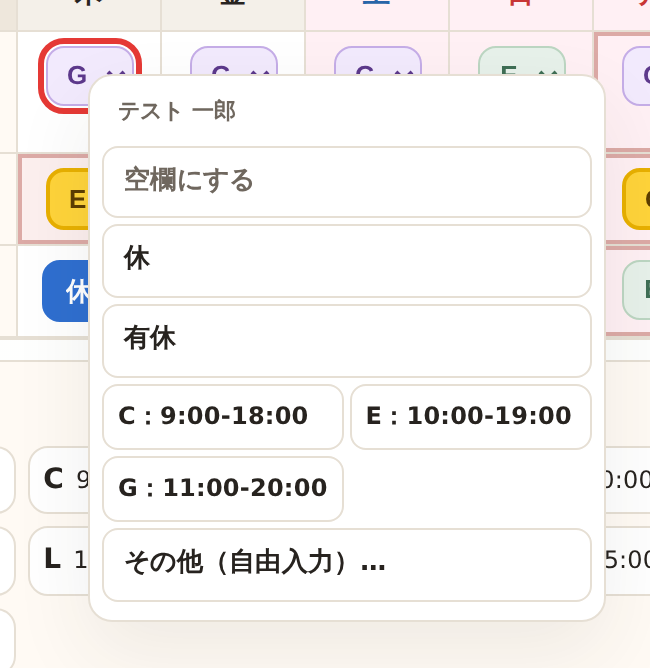
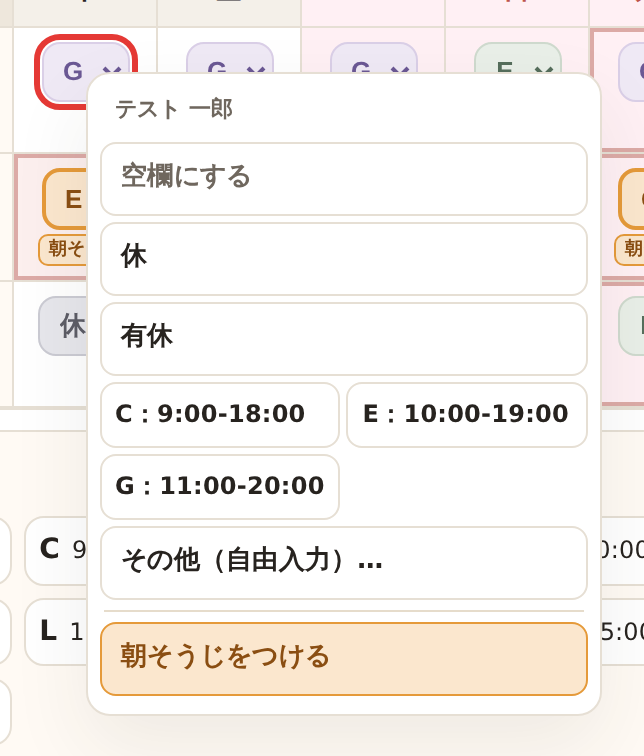
docs: sync manuals with recent feature changes + refresh screenshots
App/manual changes since the manuals were last written:
- Left menu reorganized into よく使う / 管理者向け / 店長のみ groups with
  the manual links moved inside the menu. Renumbered the manual's red
  badges (1-8) to the new top-to-bottom order and rewrote the menu
  chapters (3, 5) and the m-menu screenshot to match.
- Cell quick-menu left/right behavior swapped: left-click now opens the
  frequent-codes menu (with a new 朝そうじをつける/外す toggle),
  right-click opens the full code list. Updated chapters 12 & 14, quick
  step 6, the q-deptedit/q-edit-cell screenshots, and the in-app cell
  hint text (which still described the old behavior).
- Documented the new 朝そうじ tag (auto on early shifts, daily count,
  per-department exclusion rule builder, manual per-cell toggle, prints
  as text) and the シフト区分 appearance customization (collapsible
  panels, early=orange default) in chapter 7, with two new screenshots
  (m-morningclean, m-appearance). Noted recurring-schedule month/day.

Screenshot sizing (addresses oversized/blown-up images):
- manual.html figures now center the screenshot at its natural size
  inside a full-width card instead of stretching every image to the
  column width, so small UI captures (menu, cell menu, export menu,
  etc.) are no longer upscaled. Verified no horizontal overflow and no
  broken/cut-off images in either manual.
- Refreshed q-check and q-calendar-view from realistic multi-department
  data so they show the current styling (orange early shifts, 朝そうじ
[…]

Changed region(s): [[0.0, 0.0, 1.0, 0.988]]

diff --git a/manual.html b/manual.html
@@ -30,9 +30,9 @@ ol.manSteps{list-style:none;counter-reset:mstep;padding:0;margin:12px 0;display:
 ol.manSteps li{counter-increment:mstep;position:relative;padding:11px 13px 11px 50px;background:#fff;border:1px solid var(--line);border-radius:12px;font-size:15px;line-height:1.6}
 ol.manSteps li::before{content:counter(mstep);position:absolute;left:11px;top:50%;transform:translateY(-50%);width:28px;height:28px;border-radius:50%;background:var(--accent);color:#fff;font-weight:900;display:flex;align-items:center;justify-content:center;font-size:15px}
 ul.manList{margin:8px 0;padding-left:22px;font-size:15px;line-height:1.85}
-.manFig{margin:14px 0;border:1px solid var(--line);border-radius:14px;overflow:hidden;background:#fff;box-shadow:0 2px 12px rgba(0,0,0,.09)}
-.manFig img{display:block;width:100%;height:auto}
-.manFig figcaption{font-size:13px;color:#5b554d;padding:10px 14px;background:#f7f3ec;border-top:1px solid var(--line);line-height:1.8}
+.manFig{margin:14px 0;border:1px solid var(--line);border-radius:14px;overflow:hidden;background:#fff;box-shadow:0 2px 12px rgba(0,0,0,.09);text-align:center}
+.manFig img{display:block;width:100%;height:auto;margin:0 auto}
+.manFig figcaption{font-size:13px;color:#5b554d;padding:10px 14px;background:#f7f3ec;border-top:1px solid var(--line);line-height:1.8;text-align:left}
 .manFig figcaption b{color:#c0392b}
 .manWarn{margin:13px 0;border:1px solid #e6cf9a;background:#fff8e8;border-left:6px solid #e0a93a;border-radius:12px;padding:13px 15px}
 .manWarn .manWarnHead{font-weight:900;color:#8a5a00;font-size:15px;margin-bottom:4px;display:flex;align-items:center;gap:6px}
@@ -87,7 +87,7 @@ ul.manList{margin:8px 0;padding-left:22px;font-size:15px;line-height:1.85}
           <p class="manLead">KJM Shift＋は、お店のシフトを作るツールです。おもにこの5つができます。入力した内容はこの端末（パソコン）の中だけに自動で保存され、外部には送信されません。</p>
           <ul class="manList"><li>スタッフや希望休を登録する</li><li>部署ごとにシフトを自動で作る</li><li>作ったシフトを全体表で確認・修正する</li><li>シフトを印刷する</li><li>バックアップ（控え）を保存する</li></ul>
           <div class="manTip"><div class="manTipHead">自動保存です</div><p>「保存」ボタンを押さなくても、入力するたびに自動で保存されます。だからこそ、まちがいもすぐ保存されます。困ったら早めに直しましょう。</p></div>
-          <figure class="manFig"><img src="assets/manual/m-calendar.png" alt="全体シフト表の上部。編集モードにするボタンとファイル出力" loading="lazy" width="1158" height="212"><figcaption>これが最初に開く「全体シフト表」です。<b>①</b>編集モードにするボタン　<b>②</b>ファイル出力（印刷など）。※①と②の間にある「部署別シフト作成へ」は10章で使います。</figcaption></figure>
+          <figure class="manFig"><img src="assets/manual/m-calendar.png" alt="全体シフト表の上部。編集モードにするボタンとファイル出力" loading="lazy" width="1158" height="212" style="max-width:1158px"><figcaption>これが最初に開く「全体シフト表」です。<b>①</b>編集モードにするボタン　<b>②</b>ファイル出力（印刷など）。※①と②の間にある「部署別シフト作成へ」は10章で使います。</figcaption></figure>
         </section>
 
         <section class="manChapter" id="man-2">
@@ -96,7 +96,7 @@ ul.manList{margin:8px 0;padding-left:22px;font-size:15px;line-height:1.85}
           <div class="manWarn"><div class="manWarnHead">その1：「すべて初期化」は押さない</div><p>設定や作ったシフトが<b>すべて消えて元に戻せません</b>。わからないときは触らないでください。</p></div>
           <div class="manWarn"><div class="manWarnHead">その2：「バックアップから復元」を勝手にしない</div><p>今のデータが<b>まるごと前の状態に戻り</b>、当月だけ戻すことはできません。復元は必ず店長またはチーフ以上に確認してから。</p></div>
           <div class="manWarn"><div class="manWarnHead">その3：別の端末（パソコン）で作業しない</div><p>データはこの端末の中だけに保存されます。別のパソコンでは同じデータが見えません。作業は決められた<b>店舗PC</b>で。</p></div>
-          <figure class="manFig"><img src="assets/manual/m-backup.png" alt="バックアップ画面。バックアップ取得・バックアップから復元・すべて初期化のボタン" loading="lazy" width="2200" height="646"><figcaption>「バックアップ」画面。<b>③</b>赤い「すべて初期化」と<b>②</b>「バックアップから復元」は、勝手に押さないでください（<b>①</b>はバックアップ取得＝OK）。</figcaption></figure>
+          <figure class="manFig"><img src="assets/manual/m-backup.png" alt="バックアップ画面。バックアップ取得・バックアップから復元・すべて初期化のボタン" loading="lazy" width="2200" height="646" style="max-width:2200px"><figcaption>「バックアップ」画面。<b>③</b>赤い「すべて初期化」と<b>②</b>「バックアップから復元」は、勝手に押さないでください（<b>①</b>はバックアップ取得＝OK）。</figcaption></figure>
         </section>
 
         <section class="manChapter" id="man-3">
@@ -104,16 +104,16 @@ ul.manList{margin:8px 0;padding-left:22px;font-size:15px;line-height:1.85}
           <p class="manLead">毎月の作業は、下の<b>手順1〜9</b>の順に進めます。手順の番号（緑の丸）は「作業の順番」です。下の画像にある左メニューの赤い番号 <span class="manNum2">1</span>〜<span class="manNum2">8</span> は「メニューの位置」で、作業の順番とは別物です。各手順では、使うメニューを赤い番号で示します（例：<span class="manNum2">1</span>＝全体シフト表）。</p>
           <ol class="manSteps">
             <li>締め月を確認する〔メニュー上部の締め月バッジ〕</li>
-            <li>（必要なら）スタッフ・基本ルールを確認する〔<span class="manNum2">4</span>スタッフ／<span class="manNum2">3</span>基本ルール〕</li>
-            <li>希望休・全体予定を入れる〔<span class="manNum2">5</span>シフト希望・全体予定〕</li>
+            <li>（必要なら）スタッフ・基本ルールを確認する〔<span class="manNum2">5</span>スタッフ／<span class="manNum2">4</span>基本ルール〕</li>
+            <li>希望休・全体予定を入れる〔<span class="manNum2">3</span>シフト希望・全体予定〕</li>
             <li>部署別シフトを作成する〔<span class="manNum2">2</span>部署別シフト作成〕</li>
-            <li>警告を確認する（許容の判断はチーフ以上）〔<span class="manNum2">7</span>集計・警告〕</li>
+            <li>警告を確認する（許容の判断はチーフ以上）〔<span class="manNum2">6</span>集計・警告〕</li>
             <li>問題なければ確定する〔<span class="manNum2">2</span>部署別シフト作成〕</li>
             <li>全体シフト表で確認する〔<span class="manNum2">1</span>全体シフト表〕</li>
             <li>印刷する〔<span class="manNum2">1</span>全体シフト表 →ファイル出力〕</li>
-            <li>バックアップを取る〔<span class="manNum2">6</span>バックアップ〕</li>
+            <li>バックアップを取る〔<span class="manNum2">7</span>バックアップ〕</li>
           </ol>
-          <figure class="manFig"><img src="assets/manual/m-menu.png" alt="左メニュー。全体シフト表/部署別シフト作成/基本ルール/スタッフ/シフト希望・全体予定/バックアップ/集計・警告/OBIC連携用" loading="lazy" width="500" height="1714"><figcaption>左メニューの赤い番号は「メニューの位置」です（作業の順番ではありません）：<span class="manNum2">1</span>全体シフト表　<span class="manNum2">2</span>部署別シフト作成　<span class="manNum2">3</span>基本ルール　<span class="manNum2">4</span>スタッフ　<span class="manNum2">5</span>シフト希望・全体予定　<span class="manNum2">6</span>バックアップ　<span class="manNum2">7</span>集計・警告　<span class="manNum2">8</span>【店長】OBIC連携用。上の手順で「〔<span class="manNum2">1</span>全体シフト表〕」のように出てくる番号が、この画像の番号です。</figcaption></figure>
+          <figure class="manFig"><img src="assets/manual/m-menu.png" alt="左メニュー。全体シフト表/部署別シフト作成/基本ルール/スタッフ/シフト希望・全体予定/バックアップ/集計・警告/OBIC連携用" loading="lazy" width="274" height="1157" style="max-width:274px"><figcaption>メニューは「よく使う」「管理者向け（鍵マーク）」「店長のみ（鍵マーク）」に分かれています（鍵マークはチーフ以上・店長向け）。赤い番号は「メニューの位置」です（作業の順番ではありません）：<span class="manNum2">1</span>全体シフト表　<span class="manNum2">2</span>部署別シフト作成　<span class="manNum2">3</span>シフト希望・全体予定　<span class="manNum2">4</span>基本ルール　<span class="manNum2">5</span>スタッフ　<span class="manNum2">6</span>集計・警告　<span class="manNum2">7</span>バックアップ　<span class="manNum2">8</span>【店長】OBIC連携用。「使い方マニュアル」「クイックマニュアル」もこのメニューから開けます。上の手順で「〔<span class="manNum2">1</span>全体シフト表〕」のように出てくる番号が、この画像の番号です。</figcaption></figure>
         </section>
 
         <section class="manChapter" id="man-4">
@@ -121,40 +121,52 @@ ul.manList{margin:8px 0;padding-left:22px;font-size:15px;line-height:1.85}
           <p class="manLead">このツールは「15日締め」です。作業の前に、画面の締め月が正しいか必ず確認します。</p>
           <ul class="manList"><li>8月度のシフト → 7月16日 〜 8月15日</li><li>9月度のシフト → 8月16日 〜 9月15日</li></ul>
           <div class="manTip"><div class="manTipHead">月の変え方</div><p>左メニュー上の締め月バッジの <b>◀ ▶</b> で月を変えます。ここを変えると全部の画面が同じ月に切り替わります。</p></div>
-          <figure class="manFig"><img src="assets/manual/m-period.png" alt="締め月バッジ。前後の月へ動かす◀▶の矢印" loading="lazy" width="568" height="364"><figcaption><b>①</b>締め月バッジ。◀ ▶ で締め月を前後に動かせます。</figcaption></figure>
+          <figure class="manFig"><img src="assets/manual/m-period.png" alt="締め月バッジ。前後の月へ動かす◀▶の矢印" loading="lazy" width="568" height="364" style="max-width:568px"><figcaption><b>①</b>締め月バッジ。◀ ▶ で締め月を前後に動かせます。</figcaption></figure>
         </section>
 
         <section class="manChapter" id="man-5">
           <h3><span class="mnNum">5</span>画面の見方（左メニュー）</h3>
-          <p class="manLead">左のメニューで画面を切り替えます。それぞれの役割はこちらです。</p>
+          <p class="manLead">左のメニューで画面を切り替えます。メニューは<b>「よく使う」「管理者向け（鍵マーク）」「店長のみ（鍵マーク）」</b>の3つに分かれています。鍵マークの付いたグループは、おもにチーフ以上・店長が使う設定です。それぞれの役割はこちらです。</p>
+          <p><b>よく使う</b></p>
           <ul class="manList">
             <li><span class="manNum2">1</span><b>全体シフト表</b>：全員のシフトをまとめて見る・直す</li>
             <li><span class="manNum2">2</span><b>部署別シフト作成</b>：部署ごとに自動で作って確定する</li>
-            <li><span class="manNum2">3</span><b>基本ルール</b>：連勤・必要人数・シフト区分などの前提（おもにチーフ以上）</li>
-            <li><span class="manNum2">4</span><b>スタッフ</b>：スタッフの登録・変更</li>
-            <li><span class="manNum2">5</span><b>シフト希望・全体予定</b>：希望休や店舗予定を入れる</li>
-            <li><span class="manNum2">6</span><b>バックアップ</b>：控えの保存・復元</li>
-            <li><span class="manNum2">7</span><b>集計・警告</b>：不足や違反のチェック</li>
+            <li><span class="manNum2">3</span><b>シフト希望・全体予定</b>：希望休や店舗予定を入れる</li>
+            <li><b>使い方マニュアル／クイックマニュアル</b>：この説明ページを別タブで開く</li>
+          </ul>
+          <p><b>管理者向け（鍵マーク・おもにチーフ以上）</b></p>
+          <ul class="manList">
+            <li><span class="manNum2">4</span><b>基本ルール</b>：連勤・必要人数・シフト区分などの前提</li>
+            <li><span class="manNum2">5</span><b>スタッフ</b>：スタッフの登録・変更</li>
+            <li><span class="manNum2">6</span><b>集計・警告</b>：不足や違反のチェック</li>
+            <li><span class="manNum2">7</span><b>バックアップ</b>：控えの保存・復元</li>
+          </ul>
+          <p><b>店長のみ（鍵マーク）</b></p>
+          <ul class="manList">
             <li><span class="manNum2">8</span><b>【店長】OBIC連携用</b>：店長専用</li>
           </ul>
-          <figure class="manFig"><img src="assets/manual/m-menu.png" alt="左メニュー。全体シフト表/部署別シフト作成/基本ルール/スタッフ/シフト希望・全体予定/バックアップ/集計・警告/OBIC連携用" loading="lazy" width="500" height="1714"><figcaption>左メニューの赤い番号 <span class="manNum2">1</span>〜<span class="manNum2">8</span> は、上の一覧と同じ並びです。今いる画面は色が濃くなります。</figcaption></figure>
+          <figure class="manFig"><img src="assets/manual/m-menu.png" alt="左メニュー。全体シフト表/部署別シフト作成/基本ルール/スタッフ/シフト希望・全体予定/バックアップ/集計・警告/OBIC連携用" loading="lazy" width="274" height="1157" style="max-width:274px"><figcaption>左メニューの赤い番号 <span class="manNum2">1</span>〜<span class="manNum2">8</span> は、上の一覧と同じ並びです。今いる画面は色が濃くなります。</figcaption></figure>
         </section>
 
         <section class="manChapter" id="man-6">
           <h3><span class="mnNum">6</span>スタッフを登録・変更する</h3>
           <p class="manLead">「スタッフ」画面で登録・変更します。追加や退職者の削除は、各部署のチーフ以上も行えます。一覧は社員番号の昇順で並びます。</p>
           <ol class="manSteps"><li>左メニューの「スタッフ」を押す</li><li>「この部署にスタッフを追加」を押す（または既存スタッフのカードを押すと編集できます）</li><li>姓・名、姓のよみ・名のよみ、社員番号（5桁）を入れる</li><li>必要に応じてタグ・対応できる部署・固定公休などを設定する</li><li>「追加」を押す（編集中は「編集を終える」）</li></ol>
-          <figure class="manFig"><img src="assets/manual/m-staff.png" alt="スタッフ一覧。追加ボタン、検索、社員番号順に並ぶスタッフ行" loading="lazy" width="2360" height="366"><figcaption>スタッフ一覧。<b>①</b>「この部署にスタッフを追加」　<b>②</b>名前・よみがなで検索　<b>③</b>スタッフ名（クリックで編集できます。一覧は名前の下の「No.〇〇」＝社員番号の昇順で並びます）。</figcaption></figure>
-          <figure class="manFig"><img src="assets/manual/m-staff-edit.png" alt="スタッフ編集フォーム。姓名・よみがな・社員番号・タグ・対応できる部署・固定公休" loading="lazy" width="2124" height="2824"><figcaption>スタッフの編集。<b>①</b>姓・名　<b>②</b>姓のよみ・名のよみ（漢字を打つと自動で入ります）　<b>③</b>社員番号（5桁。番号で社員/パートが自動で付きます）　<b>④</b>タグ　<b>⑤</b>対応できる部署・兼務可能部署（チェックすると他部署のシフトにも入れます）　<b>⑥</b>固定公休日（毎週の決まった休み）。</figcaption></figure>
+          <figure class="manFig"><img src="assets/manual/m-staff.png" alt="スタッフ一覧。追加ボタン、検索、社員番号順に並ぶスタッフ行" loading="lazy" width="2360" height="366" style="max-width:2360px"><figcaption>スタッフ一覧。<b>①</b>「この部署にスタッフを追加」　<b>②</b>名前・よみがなで検索　<b>③</b>スタッフ名（クリックで編集できます。一覧は名前の下の「No.〇〇」＝社員番号の昇順で並びます）。</figcaption></figure>
+          <figure class="manFig"><img src="assets/manual/m-staff-edit.png" alt="スタッフ編集フォーム。姓名・よみがな・社員番号・タグ・対応できる部署・固定公休" loading="lazy" width="2124" height="2824" style="max-width:2124px"><figcaption>スタッフの編集。<b>①</b>姓・名　<b>②</b>姓のよみ・名のよみ（漢字を打つと自動で入ります）　<b>③</b>社員番号（5桁。番号で社員/パートが自動で付きます）　<b>④</b>タグ　<b>⑤</b>対応できる部署・兼務可能部署（チェックすると他部署のシフトにも入れます）　<b>⑥</b>固定公休日（毎週の決まった休み）。</figcaption></figure>
           <div class="manTip"><div class="manTipHead">変更したら…</div><p>スタッフを追加・削除したら、必ずバックアップを取りましょう（→ <a href="#man-16">16章「バックアップ」</a>）。</p></div>
         </section>
 
         <section class="manChapter" id="man-7">
           <h3><span class="mnNum">7</span>基本ルールの設定（おもにチーフ以上）</h3>
           <p class="manLead">自動作成の「前提」を決める画面です。ここがズレていると警告が増えます。上の「共通ルール／部署別ルール」タブで切り替えます。</p>
-          <ul class="manList"><li><b>共通ルール</b>：最大連勤、試行回数、全体の最低人数、定休日、スタッフタグ一覧、定期予定（毎月の納品など）、シフト区分（時間帯）</li><li><b>部署別ルール</b>：部署ごとの必要人数（早・中・遅／平日・土日祝）</li></ul>
-          <figure class="manFig"><img src="assets/manual/m-basic-common.png" alt="基本ルール（共通）。共通/部署別タブ・最大連勤・タグ一覧・定期予定" loading="lazy" width="2360" height="1360"><figcaption>基本ルール（共通）。<b>①</b>共通／部署別のタブ　<b>②</b>最大連勤など　<b>③</b>全体予定のタグ一覧（納品・SALEなど）　<b>④</b>定期予定（毎月くり返す予定）。</figcaption></figure>
-          <figure class="manFig"><img src="assets/manual/m-basic-dept.png" alt="基本ルール（部署別）の画面。部署別ルールタブ、部署の選択、その部署の必要人数" loading="lazy" width="2400" height="1320"><figcaption>基本ルール（部署別）。<b>①</b>部署別タブ　<b>②</b>部署を選ぶ　<b>③</b>その部署の必要人数。</figcaption></figure>
+          <ul class="manList"><li><b>共通ルール</b>：最大連勤、試行回数、全体の最低人数、定休日、スタッフタグ一覧、定期予定（毎月くり返す予定。<b>毎月／各月</b>、日付は<b>1〜31日・月末</b>から選べます）、シフト区分（区分名・時間帯・早中遅の割り当て。<b>色や枠など見た目の詳細設定</b>もできます）</li><li><b>部署別ルール</b>：部署ごとの必要人数（早・中・遅／平日・土日祝）、<b>朝そうじタグの除外設定</b></li></ul>
+          <figure class="manFig"><img src="assets/manual/m-basic-common.png" alt="基本ルール（共通）。共通/部署別タブ・最大連勤・タグ一覧・定期予定" loading="lazy" width="2360" height="1360" style="max-width:2360px"><figcaption>基本ルール（共通）。<b>①</b>共通／部署別のタブ　<b>②</b>最大連勤など　<b>③</b>全体予定のタグ一覧（納品・SALEなど）　<b>④</b>定期予定（毎月くり返す予定）。</figcaption></figure>
+          <figure class="manFig"><img src="assets/manual/m-basic-dept.png" alt="基本ルール（部署別）の画面。部署別ルールタブ、部署の選択、その部署の必要人数" loading="lazy" width="2400" height="1320" style="max-width:2400px"><figcaption>基本ルール（部署別）。<b>①</b>部署別タブ　<b>②</b>部署を選ぶ　<b>③</b>その部署の必要人数。この下に<b>「朝そうじタグの除外設定」</b>もあります。</figcaption></figure>
+          <div class="manTip"><div class="manTipHead">シフト区分の「見た目」を変えられます</div><p>「共通ルール」の<b>シフト区分</b>では、見出し<b>「シフト区分を編集」</b>で区分名・時間・割り当てを、<b>「区分の見た目を詳細設定」</b>で区分ごとの背景・文字・枠の色や太枠を変えられます（見出しを押すと開閉。初期値は<b>早番＝オレンジ、休＝グレー</b>）。設定は全体シフト表・部署別シフト・印刷/PDFに反映されます。「全区分を既定に戻す」で初期状態に戻せます。</p></div>
+          <figure class="manFig"><img src="assets/manual/m-appearance.png" alt="シフト区分の見た目を詳細設定する表。区分ごとに背景・文字・枠・太枠を設定" loading="lazy" width="974" height="1352" style="max-width:560px"><figcaption>「区分の見た目を詳細設定」を開いたところ。区分ごとに<b>背景・文字・枠・太枠</b>を設定できます（早番＝オレンジが初期値）。</figcaption></figure>
+          <div class="manTip"><div class="manTipHead">「朝そうじ」タグ（早番に自動で付きます）</div><p><b>早番</b>の勤務には、自動で<b>「朝そうじ」</b>の印が付きます（シフト表のマスの下に小さく表示。印刷時は文字で出ます）。日付ごとの合計行にも「朝そうじ」の人数が出ます。特定の曜日や全体予定の日に付けたくない部署は、<b>「部署別ルール」→「朝そうじタグの除外設定」</b>で条件を登録します（希望休と同じく、条件を組み立てて「＋ ルール追加」。登録がなければ早番すべてに付きます）。個別のマスでの付け外しは、マスを<b>左クリック</b>したメニューの「朝そうじをつける／外す」でできます（→ <a href="#man-12">12章</a>）。</p></div>
+          <figure class="manFig"><img src="assets/manual/m-morningclean.png" alt="朝そうじタグの除外設定。曜日・回数・全体予定で付けない条件をルール登録" loading="lazy" width="974" height="526" style="max-width:720px"><figcaption>「部署別ルール」の<b>朝そうじタグの除外設定</b>。曜日・回数や全体予定タグで「付けない日」の条件をルールにして登録します。</figcaption></figure>
           <div class="manTip"><div class="manTipHead">「チーフMTG」の日のしくみ</div><p>全体予定や定期予定に<b>「チーフMTG」</b>タグを入れた日は、<b>「チーフ」「園長」</b>タグの付いたスタッフ（その日出勤する場合）を、自動で<b>なるべく遅番</b>に寄せます。これは強制ではなく弱い希望で、必要人数などが優先されます。なお<b>「チーフ」「園長」「チーフMTG」</b>のタグ名は変えないでください（変えるとこのしくみが効かなくなります）。</p></div>
           <div class="manTip"><div class="manTipHead">困ったら</div><p>必要人数の変更はチーフ以上に確認してから。むやみに変えると警告や不足が増えます。</p></div>
         </section>
@@ -164,10 +176,10 @@ ul.manList{margin:8px 0;padding-left:22px;font-size:15px;line-height:1.85}
           <p class="manLead">「シフト希望・全体予定」画面です。上に「シフト希望」と「全体予定」の2つのタブがあります。</p>
           <p><b>シフト希望（個人の希望休など）</b></p>
           <ol class="manSteps"><li>「シフト希望」タブを選ぶ</li><li>「表示する部署」を選ぶ</li><li>個人の名前タブを押す（「全体」は見るだけで追加できません）</li><li>条件（日付など）と希望（休／有休／早・中・遅など）を選ぶ</li><li>「＋ このスタッフに追加」を押す（「保存」ボタンはありません。1件ずつ追加します）</li></ol>
-          <figure class="manFig"><img src="assets/manual/m-prefs.png" alt="シフト希望の画面。シフト希望タブ、表示する部署、個人の名前タブ、希望の選択、このスタッフに追加ボタン" loading="lazy" width="1626" height="870"><figcaption>シフト希望。<b>①</b>「シフト希望」タブ　<b>②</b>表示する部署　<b>③</b>個人の名前タブ（「全体」は見るだけ）　<b>④</b>希望（休・有休・早中遅など）　<b>⑤</b>「＋ このスタッフに追加」で1件ずつ登録。</figcaption></figure>
+          <figure class="manFig"><img src="assets/manual/m-prefs.png" alt="シフト希望の画面。シフト希望タブ、表示する部署、個人の名前タブ、希望の選択、このスタッフに追加ボタン" loading="lazy" width="1626" height="870" style="max-width:1626px"><figcaption>シフト希望。<b>①</b>「シフト希望」タブ　<b>②</b>表示する部署　<b>③</b>個人の名前タブ（「全体」は見るだけ）　<b>④</b>希望（休・有休・早中遅など）　<b>⑤</b>「＋ このスタッフに追加」で1件ずつ登録。</figcaption></figure>
           <div class="manTip"><div class="manTipHead">「勤務できない日」は</div><p>休みたい日も勤務できない日も、希望で<b>「休」</b>を選んで追加します。</p></div>
           <p><b>全体予定（お店全体の予定）</b></p>
-          <figure class="manFig"><img src="assets/manual/m-event.png" alt="全体予定タブ。タグ・日付/曜日の指定・追加ボタン" loading="lazy" width="2360" height="450"><figcaption>全体予定タブ。<b>①</b>タグ（納品・SALEなど）　<b>②</b>日付か曜日で指定　<b>③</b>「＋ 追加」。登録するとシフト表の日付の下に出ます。</figcaption></figure>
+          <figure class="manFig"><img src="assets/manual/m-event.png" alt="全体予定タブ。タグ・日付/曜日の指定・追加ボタン" loading="lazy" width="2360" height="450" style="max-width:2360px"><figcaption>全体予定タブ。<b>①</b>タグ（納品・SALEなど）　<b>②</b>日付か曜日で指定　<b>③</b>「＋ 追加」。登録するとシフト表の日付の下に出ます。</figcaption></figure>
         </section>
 
         <section class="manChapter" id="man-9">
@@ -175,14 +187,14 @@ ul.manList{margin:8px 0;padding-left:22px;font-size:15px;line-height:1.85}
           <p class="manLead">お店を臨時で休む日を設定できます。「シフト希望・全体予定」の「表示する部署」で<b>「店舗」</b>を選びます。</p>
           <ol class="manSteps"><li>「表示する部署」で「店舗」を選ぶ</li><li>休業にする日を押して切り替える</li></ol>
           <div class="manWarn"><div class="manWarnHead">影響が大きい操作です</div><p>臨時休業にすると、その日は全スタッフが休み扱いになり、全体シフト表・部署別シフト表・OBIC連携用の表（ツール内の出力用画面）にも反映されます。OBICシステムへ自動で送られるわけではありません。設定前にチーフ以上に確認してください。</p></div>
-          <figure class="manFig"><img src="assets/manual/m-closure.png" alt="店舗の臨時休業画面。日付ボタンを押して休業のオン/オフを切り替え" loading="lazy" width="2324" height="670"><figcaption>店舗の臨時休業の画面。日付を押すと休業のオン/オフが切り替わります。</figcaption></figure>
+          <figure class="manFig"><img src="assets/manual/m-closure.png" alt="店舗の臨時休業画面。日付ボタンを押して休業のオン/オフを切り替え" loading="lazy" width="2324" height="670" style="max-width:2324px"><figcaption>店舗の臨時休業の画面。日付を押すと休業のオン/オフが切り替わります。</figcaption></figure>
         </section>
 
         <section class="manChapter" id="man-10">
           <h3><span class="mnNum">10</span>部署別シフトを作る</h3>
           <p class="manLead">部署ごとに、シフトを自動で作ります。</p>
           <ol class="manSteps"><li>左メニューの「部署別シフト作成」を押す</li><li>作る部署の<b>カード</b>を押して選ぶ</li><li>締め月が正しいか確認する</li><li>「この部署だけ自動作成」を押す</li><li>出てきたシフトと警告を確認する</li><li>問題なければ「確定」を押す</li></ol>
-          <figure class="manFig"><img src="assets/manual/m-deptbuild.png" alt="部署別シフト作成の画面。選択中の部署カード、この部署だけ自動作成ボタン、確定ボタン" loading="lazy" width="2400" height="1080"><figcaption>部署別シフト作成。<b>①</b>選んだ部署のカード（押すと緑になり、下の作成欄がその部署になります）　<b>②</b>「この部署だけ自動作成」　<b>③</b>確認したら「確定」。</figcaption></figure>
+          <figure class="manFig"><img src="assets/manual/m-deptbuild.png" alt="部署別シフト作成の画面。選択中の部署カード、この部署だけ自動作成ボタン、確定ボタン" loading="lazy" width="2400" height="1080" style="max-width:2400px"><figcaption>部署別シフト作成。<b>①</b>選んだ部署のカード（押すと緑になり、下の作成欄がその部署になります）　<b>②</b>「この部署だけ自動作成」　<b>③</b>確認したら「確定」。</figcaption></figure>
           <div class="manTip"><div class="manTipHead">「確定」と「再編集」</div><p>確定すると全体表に反映され、そのセルは編集できなくなります。一度確定すると同じボタンが<b>「再編集」</b>に変わり、押せばやり直せます（取り消せます）。<b>兼務スタッフ</b>は、所属・兼務先のうち<b>どれか1つの部署が確定された時点で、その人のシフトは全部署で編集できなくなります</b>（直すときは、確定した側を「再編集」に戻します）。</p></div>
           <div class="manTip"><div class="manTipHead">確定できないとき</div><p><b>「重大」な警告</b>が残っていると確定できません（「注意」だけなら確定できます）。なお「重大」は、確定ボタンの下や確定時のメッセージでは<b>「エラー」</b>と表示されます。内容を確認し、許容してよいかはチーフ以上が判断します（→ <a href="#man-13">13章「警告を確認する」</a>）。</p></div>
         </section>
@@ -191,9 +203,9 @@ ul.manList{margin:8px 0;padding-left:22px;font-size:15px;line-height:1.85}
           <h3><span class="mnNum">11</span>自動作成の便利な機能</h3>
           <p class="manLead">作り直したいときに使えます。むずかしければ、まずは「自動作成」と「確定」だけで大丈夫です。</p>
           <ul class="manList"><li><b>別パターン再生成</b>：同じ条件で別の案を作る</li><li><b>生成を中止</b>：作成中に止める（変更は反映されません）</li><li><b>前案に戻す／前案と比較</b>：作り直す前の案に戻したり、見比べたりできる</li><li><b>この締め月のシフトを空欄にする</b>：その部署のこの月を白紙に戻す</li></ul>
-          <figure class="manFig"><img src="assets/manual/m-deptbuild2.png" alt="部署別シフト作成の補助ボタン。別パターン再生成・この締め月のシフトを空欄にする・ファイル出力" loading="lazy" width="1234" height="308"><figcaption>作り直し系のボタン。<b>①</b>別パターン再生成など　<b>②</b>「この締め月のシフトを空欄にする」やファイル出力。</figcaption></figure>
+          <figure class="manFig"><img src="assets/manual/m-deptbuild2.png" alt="部署別シフト作成の補助ボタン。別パターン再生成・この締め月のシフトを空欄にする・ファイル出力" loading="lazy" width="1234" height="308" style="max-width:1234px"><figcaption>作り直し系のボタン。<b>①</b>別パターン再生成など　<b>②</b>「この締め月のシフトを空欄にする」やファイル出力。</figcaption></figure>
           <p><b>手で一気に入れたいとき（一括手動登録）</b></p>
-          <figure class="manFig"><img src="assets/manual/m-bulk.png" alt="一括手動登録タブ。条件を選んでまとめてシフトを入力する画面" loading="lazy" width="2324" height="1040"><figcaption>上の「一括手動登録」タブ。条件を選んで、まとめてシフトを入れられます。</figcaption></figure>
+          <figure class="manFig"><img src="assets/manual/m-bulk.png" alt="一括手動登録タブ。条件を選んでまとめてシフトを入力する画面" loading="lazy" width="2324" height="1040" style="max-width:2324px"><figcaption>上の「一括手動登録」タブ。条件を選んで、まとめてシフトを入れられます。</figcaption></figure>
         </section>
 
         <section class="manChapter" id="man-12">
@@ -201,10 +213,10 @@ ul.manList{margin:8px 0;padding-left:22px;font-size:15px;line-height:1.85}
           <p class="manLead">自動作成したシフトは、<b>「部署別シフト作成」の確認表の上で直接</b>直せます。ふだんの修正はこの方法がおすすめです（全体シフト表へ移動する必要はありません）。直すのは<b>確定する前</b>。確定後に直したいときは、いったん「再編集」に戻します（→ <a href="#man-10">10章「部署別シフトを作る」</a>）。</p>
           <ol class="manSteps">
             <li>「部署別シフト作成」で部署を選び、下の<b>確認表</b>を見る</li>
-            <li>直したいマスを<b>右クリック</b>して、「休／有休／シフト区分（C・E・Gなど）／空欄にする」から選ぶ</li>
-            <li>左クリックでも、同じ内容を一覧から選べます</li>
+            <li>直したいマスを<b>左クリック</b>して、「休／有休／シフト区分（C・E・Gなど）／空欄にする」から選ぶ</li>
+            <li><b>右クリック</b>すると、<b>すべてのシフト区分</b>の一覧から選べます（左クリックはそのスタッフのよく使う区分のみ）</li>
           </ol>
-          <figure class="manFig"><img src="assets/manual/q-deptedit.png" alt="部署別シフト作成の確認表でマスを右クリックして開くクイック入力メニュー" loading="lazy" width="325" height="334"><figcaption>確認表のマスを<b>右クリック</b>すると、このクイック入力メニューが開きます。選ぶだけで変更できます。</figcaption></figure>
+          <figure class="manFig"><img src="assets/manual/q-deptedit.png" alt="部署別シフト作成の確認表でマスを左クリックして開くクイック入力メニュー" loading="lazy" width="322" height="378" style="max-width:322px"><figcaption>確認表のマスを<b>左クリック</b>すると、このクイック入力メニューが開きます。選ぶだけで変更できます（一番下の<b>「朝そうじをつける／外す」</b>で、その日の朝そうじの印も切り替えられます）。<b>右クリック</b>では全区分の一覧が開きます。</figcaption></figure>
           <div class="manTip"><div class="manTipHead">まとめて直す・元に戻す</div>
             <ul class="manList"><li><span class="manKbd">Shift</span>を押しながら<b>クリック／ドラッグ</b>で複数のマスを四角く選び、右クリックでまとめて変更できます。</li><li>まちがえたら <span class="manKbd">Ctrl</span>＋<span class="manKbd">Z</span>（元に戻す）。確認表の上の <b>「↩ 元に戻す／↪ やり直す」</b> でも戻せます。</li></ul>
           </div>
@@ -217,7 +229,7 @@ ul.manList{margin:8px 0;padding-left:22px;font-size:15px;line-height:1.85}
           <p class="manLead">「集計・警告」画面で、スタッフ別の回数と、不足・連勤・希望未達などの警告を確認できます。警告は<b>「重大」</b>と<b>「注意」</b>に分かれます。<b>「重大」は部署の確定をブロックします</b>（確定ボタンの下や確定時のメッセージでは「エラー」と表示）。<b>「注意」は確定をブロックしません</b>（残す場合も内容は必ず確認してください）。</p>
           <ul class="manList"><li>人数が足りない／連勤が多い／希望休が反映できていない／早番・遅番が足りない など</li></ul>
           <div class="manWarn"><div class="manWarnHead">「許容」してよいかを決める人</div><p>警告の一覧で各行のチェックを付けると「許容（OKとする）」になります（確認ダイアログが出ます）。<b>これを判断するのはチーフ以上</b>です。一般スタッフだけで決めないでください。<b>「重大（エラー）」が残っていると確定できません</b>。迷ったら確定せずチーフ以上へ。許容は「集計・警告」画面でも、部署別シフト作成の「下書きチェック」でもできます。</p></div>
-          <figure class="manFig"><img src="assets/manual/m-stats.png" alt="集計・警告の画面。スタッフ別の回数表と、必要人数の不足状況" loading="lazy" width="2324" height="1200"><figcaption>集計・警告。スタッフ別の回数表と、不足状況が出ます。さらに下に出る<b>警告の一覧</b>で、各行のチェックを付けると「許容」にできます（確認ダイアログあり。「全て／重大／注意／許容済み」で絞り込めます）。</figcaption></figure>
+          <figure class="manFig"><img src="assets/manual/m-stats.png" alt="集計・警告の画面。スタッフ別の回数表と、必要人数の不足状況" loading="lazy" width="2324" height="1200" style="max-width:2324px"><figcaption>集計・警告。スタッフ別の回数表と、不足状況が出ます。さらに下に出る<b>警告の一覧</b>で、各行のチェックを付けると「許容」にできます（確認ダイアログあり。「全て／重大／注意／許容済み」で絞り込めます）。</figcaption></figure>
         </section>
 
         <section class="manChapter" id="man-14">
@@ -226,10 +238,10 @@ ul.manList{margin:8px 0;padding-left:22px;font-size:15px;line-height:1.85}
           <div class="manTip"><div class="manTipHead">直すときは「部署別シフト作成」がおすすめ</div><p>シフトの修正は、基本的に <a href="#man-12">12章「部署別シフトを直す（編集）」</a>（部署別シフト作成の確認表で直接）で行うのがおすすめです。<b>全体シフト表からも直せます</b>が、全体を見比べながら直したいときなどに使います。どちらの場合も、編集の前にチーフ以上へ確認しましょう。</p></div>
           <div class="manTip"><div class="manTipHead">全体シフト表での直し方（編集モード）</div>
             <p>全体シフト表で直すときは、まず「編集モードにする」を押します（押すと「参照モードに戻す」に変わります）。そのあと：</p>
-            <ul class="manList"><li>マスを<b>クリック</b>すると一覧が開き、シフトを選べます</li><li>マスを<b>右クリック</b>すると、休・有休・各区分などをすぐ入れられます</li><li><span class="manKbd">Shift</span>を押しながらドラッグ／クリックで、四角く<b>複数選択</b>→右クリックでまとめて変更</li><li>まちがえたら <span class="manKbd">Ctrl</span>＋<span class="manKbd">Z</span>（元に戻す）。表の上の「↩ 元に戻す／↪ やり直す」でもできます</li></ul>
+            <ul class="manList"><li>マスを<b>左クリック</b>すると、よく使う区分のメニューが開きます（空欄／休／有休／各区分。勤務日は<b>「朝そうじ」</b>の切替も）</li><li>マスを<b>右クリック</b>すると、<b>すべての区分</b>の一覧から選べます</li><li><span class="manKbd">Shift</span>を押しながらドラッグ／クリックで、四角く<b>複数選択</b>→右クリック（または左クリック）でまとめて変更</li><li>まちがえたら <span class="manKbd">Ctrl</span>＋<span class="manKbd">Z</span>（元に戻す）。表の上の「↩ 元に戻す／↪ やり直す」でもできます</li></ul>
           </div>
-          <figure class="manFig"><img src="assets/manual/m-edit.png" alt="全体シフト表の編集モード。参照モードに戻すボタンと元に戻す/やり直し" loading="lazy" width="2320" height="1440"><figcaption>編集モードの画面。<b>①</b>「参照モードに戻す」（押すと見るだけに戻る）　<b>②</b>「↩ 元に戻す／↪ やり直す」。青い帯に操作のヒントも出ます。</figcaption></figure>
-          <figure class="manFig"><img src="assets/manual/q-edit-cell.png" alt="シフト表のマスを右クリックして開くクイック入力メニュー。空欄にする・休・有休・各区分の選択肢" loading="lazy" width="329" height="338"><figcaption>マスを<b>右クリック</b>すると、このクイック入力メニューが開きます。「空欄にする／休／有休／シフト区分（C・E・Gなど）」から選ぶだけ。マスを<b>左クリック</b>した場合も、同じ内容を一覧から選べます。</figcaption></figure>
+          <figure class="manFig"><img src="assets/manual/m-edit.png" alt="全体シフト表の編集モード。参照モードに戻すボタンと元に戻す/やり直し" loading="lazy" width="2320" height="1440" style="max-width:2320px"><figcaption>編集モードの画面。<b>①</b>「参照モードに戻す」（押すと見るだけに戻る）　<b>②</b>「↩ 元に戻す／↪ やり直す」。青い帯に操作のヒントも出ます。</figcaption></figure>
+          <figure class="manFig"><img src="assets/manual/q-edit-cell.png" alt="シフト表のマスを右クリックして開くクイック入力メニュー。空欄にする・休・有休・各区分の選択肢" loading="lazy" width="322" height="378" style="max-width:322px"><figcaption>マスを<b>左クリック</b>すると、このクイック入力メニューが開きます。「空欄にする／休／有休／シフト区分（C・E・Gなど）」から選ぶだけ（勤務日は一番下の<b>「朝そうじをつける／外す」</b>も使えます）。<b>右クリック</b>では全区分の一覧が開きます。</figcaption></figure>
           <div class="manTip"><div class="manTipHead">マスが編集できないとき</div><p>確定済み部署のスタッフのマスは編集できません（直すには、その部署を「再編集」に戻します）。<b>兼務スタッフ</b>は、所属・兼務先のうちどれか1つの部署が確定されていると、全部署のマスが編集できなくなります。</p></div>
           <div class="manTip"><div class="manTipHead">直したら…</div><p>修正したら、必ずバックアップを取りましょう（→ <a href="#man-16">16章「バックアップ」</a>）。なお「元に戻す」が効くのはシフト表の編集だけです。希望休やスタッフの追加・初期化・復元は戻せません。</p></div>
         </section>
@@ -238,7 +250,7 @@ ul.manList{margin:8px 0;padding-left:22px;font-size:15px;line-height:1.85}
           <h3><span class="mnNum">15</span>印刷・ファイル出力</h3>
           <p class="manLead">できあがったシフトを紙に出したり、ファイルに出したりできます。印刷は一般スタッフでもできます。</p>
           <ol class="manSteps"><li>「全体シフト表」（または「部署別シフト作成」）を開く</li><li>締め月と内容を確認する</li><li>「ファイル出力」を<b>1回クリックして開く</b></li><li>「印刷/PDF」を押す（CSV出力・Excel出力もここ）</li><li>印刷画面でプリンターを選び、印刷する</li></ol>
-          <figure class="manFig"><img src="assets/manual/m-export.png" alt="ファイル出力メニュー。CSV出力・Excel出力・印刷/PDF" loading="lazy" width="440" height="384"><figcaption>「ファイル出力」を開いたところ。<b>①</b>メニューが開く　<b>②</b>「印刷/PDF」（その上にCSV出力・Excel出力）。</figcaption></figure>
+          <figure class="manFig"><img src="assets/manual/m-export.png" alt="ファイル出力メニュー。CSV出力・Excel出力・印刷/PDF" loading="lazy" width="440" height="384" style="max-width:440px"><figcaption>「ファイル出力」を開いたところ。<b>①</b>メニューが開く　<b>②</b>「印刷/PDF」（その上にCSV出力・Excel出力）。</figcaption></figure>
           <div class="manWarn"><div class="manWarnHead">印刷の前にチェック</div><ul class="manList"><li>締め月は正しいですか？</li><li>必要な部署は全部「確定」していますか？</li><li>へんな場所に空欄はありませんか？</li><li>警告は確認済みですか？／チーフ以上の確認は終わっていますか？</li></ul></div>
         </section>
 
@@ -250,8 +262,8 @@ ul.manList{margin:8px 0;padding-left:22px;font-size:15px;line-height:1.85}
             <p>保存先 → <span class="manFolder">デスクトップの「KJM Shift＋バックアップ」フォルダ</span></p>
           </div>
           <ol class="manSteps"><li>左メニューの「バックアップ」を押す</li><li>緑の「バックアップ取得（JSON保存）」を押す</li><li><b>保存先を選ぶ画面</b>が出たら、<b>「KJM Shift＋バックアップ」フォルダ</b>を選んで「保存」を押す（下の画像）</li></ol>
-          <figure class="manFig"><img src="assets/manual/m-backup.png" alt="バックアップ画面。バックアップ取得・バックアップから復元・すべて初期化のボタン" loading="lazy" width="2200" height="646"><figcaption>バックアップ画面。<b>①</b>緑の「バックアップ取得（JSON保存）」を押します（赤い「すべて初期化」「バックアップから復元」は押さない）。</figcaption></figure>
-          <figure class="manFig"><img src="assets/manual/m-backup-save.png" alt="保存先に「KJM Shift＋バックアップ」フォルダを選んで保存する画面" loading="lazy" width="662" height="401"><figcaption>保存先を選ぶ画面。<b>①</b>「KJM Shift＋バックアップ」フォルダを選び　<b>②</b>「保存」を押します。これで控えがそのフォルダに直接入ります。</figcaption></figure>
+          <figure class="manFig"><img src="assets/manual/m-backup.png" alt="バックアップ画面。バックアップ取得・バックアップから復元・すべて初期化のボタン" loading="lazy" width="2200" height="646" style="max-width:2200px"><figcaption>バックアップ画面。<b>①</b>緑の「バックアップ取得（JSON保存）」を押します（赤い「すべて初期化」「バックアップから復元」は押さない）。</figcaption></figure>
+          <figure class="manFig"><img src="assets/manual/m-backup-save.png" alt="保存先に「KJM Shift＋バックアップ」フォルダを選んで保存する画面" loading="lazy" width="662" height="401" style="max-width:662px"><figcaption>保存先を選ぶ画面。<b>①</b>「KJM Shift＋バックアップ」フォルダを選び　<b>②</b>「保存」を押します。これで控えがそのフォルダに直接入ります。</figcaption></figure>
           <div class="manWarn"><div class="manWarnHead">大事なこと</div><ul class="manList"><li>データはこの端末の中だけ。控えはこのバックアップだけが頼りです。</li><li>ファイル名は基本そのまま（いつの控えか分からなくなるため）。</li><li>保存先を選ぶ画面が出ず、自動で「ダウンロード」フォルダに入る場合は、そのファイルを「KJM Shift＋バックアップ」フォルダへ移してください。</li></ul></div>
         </section>
 
@@ -266,7 +278,7 @@ ul.manList{margin:8px 0;padding-left:22px;font-size:15px;line-height:1.85}
         <section class="manChapter" id="man-18">
           <h3><span class="mnNum">18</span>トリマー月次表・サロンドワン連携</h3>
           <p class="manLead">トリマーを選ぶと、「部署別シフト作成」の下に1日〜月末のひと月分の表が出ます（<b>見るだけ</b>。直すときは部署別シフト作成（15日締め）の確認表から → <a href="#man-12">12章</a>）。年・月を選んで、印刷やファイル出力（CSV）ができます。トリマーは、このCSVを<b>サロンドワン</b>へ取り込みます。</p>
-          <figure class="manFig"><img src="assets/manual/m-monthly.png" alt="トリマー月次表。1か月分の表と、年・月の選択、右上のファイル出力ボタン" loading="lazy" width="2124" height="1246"><figcaption>トリマー月次表。年・月を選んで表示します。右上の「ファイル出力」から印刷・CSV・Excelが出せます。</figcaption></figure>
+          <figure class="manFig"><img src="assets/manual/m-monthly.png" alt="トリマー月次表。1か月分の表と、年・月の選択、右上のファイル出力ボタン" loading="lazy" width="2124" height="1246" style="max-width:2124px"><figcaption>トリマー月次表。年・月を選んで表示します。右上の「ファイル出力」から印刷・CSV・Excelが出せます。</figcaption></figure>
           <div class="manWarn"><div class="manWarnHead">CSV出力の前に：月次表がすべて埋まっているか確認</div><p>月次表は<b>「1日〜月末」のカレンダー1か月分</b>を表示しますが、自動作成は<b>「15日締め（16日〜翌月15日）」</b>単位です。そのため月次表の1か月は<b>2つの締め月にまたがり</b>（前半と後半で別の締め月）、片方の締め月しか作成していないと<b>月次表は半分しか埋まりません</b>。CSV出力の前に、表の全日（1日〜月末）が埋まっているか必ず確認してください。</p><p>例：月次表で <b>6月（6/1〜6/30）</b> を出すには、前半 6/1〜6/15 を含む <b>6月度（5/16〜6/15）</b> と、後半 6/16〜6/30 を含む <b>7月度（6/16〜7/15）</b> の<b>両方</b>を作成済みにしておく必要があります（片方だけだと前半か後半が空欄になります）。</p></div>
           <div class="manTip"><div class="manTipHead">月次表の対象月は個別に選びます</div><p>月次表の<b>年・月</b>は、左メニュー上部の締め月（◀ ▶）とは<b>別に</b>、この月次表で個別に選びます。締め月を変えても、月次表は自動では切り替わりません。</p></div>
           <p><b>サロンドワンへの取り込み手順</b></p>
@@ -281,7 +293,7 @@ ul.manList{margin:8px 0;padding-left:22px;font-size:15px;line-height:1.85}
             <li>自動入力された内容（人数・公休の位置・対象月）を確認する</li>
             <li>問題なければ保存する</li>
           </ol>
-          <figure class="manFig"><img src="assets/manual/q-monthly-csv.png" alt="月次表のファイル出力メニュー。CSV出力を選ぶ" loading="lazy" width="212" height="235"><figcaption>手順2：月次表の「ファイル出力」を開いて <b>「CSV出力」</b> を選びます。</figcaption></figure>
+          <figure class="manFig"><img src="assets/manual/q-monthly-csv.png" alt="月次表のファイル出力メニュー。CSV出力を選ぶ" loading="lazy" width="212" height="235" style="max-width:212px"><figcaption>手順2：月次表の「ファイル出力」を開いて <b>「CSV出力」</b> を選びます。</figcaption></figure>
           <div class="manWarn"><div class="manWarnHead">月ちがいに注意</div><p>ツールで出力した月と、サロンドワンで開くシフト表の月が<b>同じ</b>であることを必ず確認してください。ちがう月だと反映されません。</p></div>
           <div class="manTip"><div class="manTipHead">手順3以降はツールの外（サロンドワン）</div><p>手順3〜8はサロンドワンでの操作です（別アプリのため、このマニュアルには画面写真がありません）。サロンドワンの画面に従って進めてください。</p></div>
         </section>
@@ -292,7 +304,7 @@ ul.manList{margin:8px 0;padding-left:22px;font-size:15px;line-height:1.85}
           <p class="manLead">全スタッフの休日（公休・希望休・有休）を、社員番号の昇順で並べた「OBICへ取り込むための一覧」を作る画面です（ツール内の出力用の表で、OBICへ自動送信はされません）。<b>休み（公休・希望休・有休）の日に「休日」、出勤（勤務シフト。その他を含む）の日は空欄</b>で出力されます（臨時休業日も休み扱い）。コピーまたはExcel出力したものを、店長がOBIC側に貼り付け／取り込みます。対象の締め月は「全体シフト表」で選んだ月です。</p>
           <ol class="manSteps"><li>「コピー」を押す（休日/空欄をExcelと同じ形でコピー）→ OBICのシフト表に貼り付け</li><li>または「Excel出力」でファイルに保存</li><li>貼り付け後、<b>ツールの「対象スタッフ 合計○名」とOBIC側の行数・氏名の並び</b>が合っているか必ず照合する</li></ol>
           <div class="manWarn"><div class="manWarnHead">貼り付け前に「未設定」の表示を確認（行ズレ防止）</div><p>コピー/貼り付けの前に、合計の横に<b>赤い「社員番号 未設定 ○名」</b>が出ていないか必ず確認してください。社員番号が未設定のスタッフは<b>並びの末尾に入り、貼り付け時に全員の行が1行ずれる</b>原因になります。出ている場合は、先に「スタッフ」画面で社員番号を入れてから貼り付けます。<b>「部署未設定」</b>のスタッフはそもそも対象外です（部署を割り当てると対象になります）。</p></div>
-          <figure class="manFig"><img src="assets/manual/m-obic.png" alt="OBIC連携用の画面。コピー、Excel出力、対象人数と注意表示" loading="lazy" width="2400" height="382"><figcaption>OBIC連携用。<b>①</b>「コピー」　<b>②</b>「Excel出力」　<b>③</b>対象人数と注意表示（「社員番号 未設定 ○名」「部署未設定 ○名は対象外」が出たら要対応）。社員番号の昇順に並びます。（下の画像は全員に社員番号がある状態の例）</figcaption></figure>
+          <figure class="manFig"><img src="assets/manual/m-obic.png" alt="OBIC連携用の画面。コピー、Excel出力、対象人数と注意表示" loading="lazy" width="2400" height="382" style="max-width:2400px"><figcaption>OBIC連携用。<b>①</b>「コピー」　<b>②</b>「Excel出力」　<b>③</b>対象人数と注意表示（「社員番号 未設定 ○名」「部署未設定 ○名は対象外」が出たら要対応）。社員番号の昇順に並びます。（下の画像は全員に社員番号がある状態の例）</figcaption></figure>
           <div class="manTip"><div class="manTipHead">出したファイルの管理</div><p>Excel出力した休日一覧は<b>氏名・社員番号を含みます</b>。共有フォルダ・メール添付・USB持ち出しは避け、OBIC取り込み後は端末内の所定の場所で管理してください（不要になったら削除）。</p></div>
         </section>
 

diff --git a/index.html b/index.html
@@ -4516,7 +4516,7 @@ function renderDeptShiftPreview(){
   const days=getDays();
   const rows=staffSortedByEmpNo(state.staff.filter(s=>s.dept===activeBuildDept || (s.supportDepts||[]).includes(activeBuildDept)));
   const editable=!isDeptConfirmed(activeBuildDept);
-  let html=`<h3>${esc(activeBuildDept)} のシフト確認 <span class="pvSizeSeg" role="group" aria-label="表サイズの切替"><span class="pvSizeLabel">表サイズ:</span><button type="button" class="${deptPreviewSize==='small'?'active':''}" onclick="setDeptPreviewSize('small')" title="6人表示">小</button><button type="button" class="${deptPreviewSize==='medium'?'active':''}" onclick="setDeptPreviewSize('medium')" title="10人表示">中</button><button type="button" class="${deptPreviewSize==='large'?'active':''}" onclick="setDeptPreviewSize('large')" title="15人表示">大</button></span></h3><div class="small">対象スタッフ（兼務含む）の全シフトを表示しています。兼務スタッフは他部署分の勤務もここに表示され、どの部署のページからでも編集できます。所属・兼務先のいずれかが確定済みのスタッフは編集できません。</div>${editable?'<div class="cellOpHint"><img class="appicon" src="assets/icons/svg/sheet-edit.svg" alt="">セルは<b>クリック</b>で区分変更、<b>右クリック</b>でクイック入力。<b>Shift+ドラッグ</b>／<b>Shift+クリック</b>（または Shift+矢印）で複数セルを範囲選択し、右クリックから一括入力できます。</div>':''}${editable?`<div class="undoRedoRow">${undoRedoBarHtml()}</div>`:''}<div class="tableWrap deptPvWrap pv${deptPreviewSize[0].toUpperCase()+deptPreviewSize.slice(1)}"><table><thead><tr><th class="deptCol headSticky1">所属</th><th class="staffCol headSticky2">スタッフ</th>`;
+  let html=`<h3>${esc(activeBuildDept)} のシフト確認 <span class="pvSizeSeg" role="group" aria-label="表サイズの切替"><span class="pvSizeLabel">表サイズ:</span><button type="button" class="${deptPreviewSize==='small'?'active':''}" onclick="setDeptPreviewSize('small')" title="6人表示">小</button><button type="button" class="${deptPreviewSize==='medium'?'active':''}" onclick="setDeptPreviewSize('medium')" title="10人表示">中</button><button type="button" class="${deptPreviewSize==='large'?'active':''}" onclick="setDeptPreviewSize('large')" title="15人表示">大</button></span></h3><div class="small">対象スタッフ（兼務含む）の全シフトを表示しています。兼務スタッフは他部署分の勤務もここに表示され、どの部署のページからでも編集できます。所属・兼務先のいずれかが確定済みのスタッフは編集できません。</div>${editable?'<div class="cellOpHint"><img class="appicon" src="assets/icons/svg/sheet-edit.svg" alt="">セルは<b>左クリック</b>でよく使う区分メニュー、<b>右クリック</b>で全区分の一覧。<b>Shift+ドラッグ</b>／<b>Shift+クリック</b>（または Shift+矢印）で複数セルを範囲選択し、右クリックでまとめて入力できます。</div>':''}${editable?`<div class="undoRedoRow">${undoRedoBarHtml()}</div>`:''}<div class="tableWrap deptPvWrap pv${deptPreviewSize[0].toUpperCase()+deptPreviewSize.slice(1)}"><table><thead><tr><th class="deptCol headSticky1">所属</th><th class="staffCol headSticky2">スタッフ</th>`;
   // 人数系エラー（個人に紐づかない）の日列を赤枠表示する。
   // ただし未生成・全空欄（この締め月のこの部署にシフトが無い）なら、下書きチェックと同条件でエラー検出しない。
   const previewHasData = deptHasAnyAssignment(activeBuildDept);
@@ -4639,7 +4639,7 @@ function renderCalendar(){
   const counts=getCounts(displaySchedule,days,displayAssignDept); const tbl=document.getElementById('calendarTable');
   const modeBox=document.getElementById('calendarModeBox');
   const editBtn=document.getElementById('calendarEditBtn');
-  if(modeBox){ const list=confirmedDeptList(); const listHtml=list.length?`<div class="deptNotice">${list.map(d=>`<span class="badge">${esc(d)} 確定済み</span>`).join('')}</div>`:'<div class="small">確定済み部署はありません。</div>'; modeBox.innerHTML = (calendarEditMode ? '<span class="modeBadge editing">編集モード</span> 未確定部署の下書きも表示します。確定済み部署のセルは編集できません。<br><span class="cellOpHint"><img class="appicon" src="assets/icons/svg/sheet-edit.svg" alt="">セルは<b>クリック</b>で区分変更、<b>右クリック</b>でクイック入力。<b>Shift+ドラッグ</b>／<b>Shift+クリック</b>（または Shift+矢印）で複数セルを範囲選択し、右クリックから一括入力できます。</span><div class="undoRedoRow">'+undoRedoBarHtml()+'</div>' : '<span class="modeBadge">参照モード</span> 全体シフト表には確定済み部署のシフトだけを表示します。変更する場合は「編集モードにする」を押してください。') + listHtml; }
+  if(modeBox){ const list=confirmedDeptList(); const listHtml=list.length?`<div class="deptNotice">${list.map(d=>`<span class="badge">${esc(d)} 確定済み</span>`).join('')}</div>`:'<div class="small">確定済み部署はありません。</div>'; modeBox.innerHTML = (calendarEditMode ? '<span class="modeBadge editing">編集モード</span> 未確定部署の下書きも表示します。確定済み部署のセルは編集できません。<br><span class="cellOpHint"><img class="appicon" src="assets/icons/svg/sheet-edit.svg" alt="">セルは<b>左クリック</b>でよく使う区分メニュー、<b>右クリック</b>で全区分の一覧。<b>Shift+ドラッグ</b>／<b>Shift+クリック</b>（または Shift+矢印）で複数セルを範囲選択し、右クリックでまとめて入力できます。</span><div class="undoRedoRow">'+undoRedoBarHtml()+'</div>' : '<span class="modeBadge">参照モード</span> 全体シフト表には確定済み部署のシフトだけを表示します。変更する場合は「編集モードにする」を押してください。') + listHtml; }
   if(editBtn){ editBtn.innerHTML = (calendarEditMode ? '<img class="appicon" src="assets/icons/svg/nav-overall-shift.svg" alt="">参照モードに戻す' : '<img class="appicon" src="assets/icons/svg/edit-mode.svg" alt="">編集モードにする'); editBtn.className = calendarEditMode ? 'btn' : 'btn2'; }
   let html='<thead><tr><th class="deptCol headSticky1">部署</th><th class="staffCol headSticky2">スタッフ</th>';
   for(const day of days){ const cls=dayColClass(day); html+=`<th class="dateCol ${cls}" ${day.holiday?`title="${escAttr(day.holiday)}"`:''}>${dateHeaderInner(day)}</th>`; }

diff --git a/quick.html b/quick.html
@@ -103,12 +103,12 @@ body{margin:0;font-family:"BIZ UDPGothic","Hiragino Sans","Yu Gothic UI","Noto S
       <div class="qstep">
         <div class="qstepHead"><span class="qnum">5</span><span class="qact">生成されたシフトを確認する</span></div>
         <p class="qdesc">出てきた表をながめ、<b>赤いセル</b>や<b>警告</b>がないか確認します。気になるところは次の手順で直します。</p>
-        <figure class="qfig"><img src="assets/manual/q-check.png" alt="生成結果の確認" loading="lazy" width="1162" height="576" style="max-width:1162px"></figure>
+        <figure class="qfig"><img src="assets/manual/q-check.png" alt="生成結果の確認（早番はオレンジで朝そうじの印つき）" loading="lazy" width="1182" height="754" style="max-width:780px"></figure>
       </div>
       <div class="qstep">
         <div class="qstepHead"><span class="qnum">6</span><span class="qact">シフトを編集する（必要なら）</span></div>
-        <p class="qdesc">直すときは、いま開いている<b>「部署別シフト作成」の確認表で直接</b>直せます（全体シフト表へ移動しなくてOK）。マスを<b>右クリック</b>して「休／有休／シフト区分（C・E・Gなど）」から選ぶだけ（左クリックでも一覧が出ます）。<br><span class="qhint">・まちがえたら <span class="qkbd">Ctrl</span>＋<span class="qkbd">Z</span>、または表の上の <b>「↩ 元に戻す」</b>ボタンで戻せます。<br>・<span class="qkbd">Shift</span>＋クリック／ドラッグで複数のマスをまとめて選び、右クリックで一括変更できます。</span></p>
-        <figure class="qfig"><img src="assets/manual/q-deptedit.png" alt="部署別シフト作成の確認表でマスを右クリックして直す" loading="lazy" width="325" height="334" style="max-width:325px"></figure>
+        <p class="qdesc">直すときは、いま開いている<b>「部署別シフト作成」の確認表で直接</b>直せます（全体シフト表へ移動しなくてOK）。マスを<b>左クリック</b>して「休／有休／シフト区分（C・E・Gなど）」から選ぶだけ（<b>右クリック</b>では全区分の一覧）。勤務日はメニュー下の<b>「朝そうじをつける／外す」</b>も使えます。<br><span class="qhint">・まちがえたら <span class="qkbd">Ctrl</span>＋<span class="qkbd">Z</span>、または表の上の <b>「↩ 元に戻す」</b>ボタンで戻せます。<br>・<span class="qkbd">Shift</span>＋クリック／ドラッグで複数のマスをまとめて選び、右クリック（または左クリック）で一括変更できます。</span></p>
+        <figure class="qfig"><img src="assets/manual/q-deptedit.png" alt="部署別シフト作成の確認表でマスを左クリックして直す" loading="lazy" width="322" height="378" style="max-width:322px"></figure>
       </div>
       <div class="qstep">
         <div class="qstepHead"><span class="qnum">7</span><span class="qact">確定する</span></div>
@@ -174,7 +174,7 @@ body{margin:0;font-family:"BIZ UDPGothic","Hiragino Sans","Yu Gothic UI","Noto S
       <div class="qstep">
         <div class="qstepHead"><span class="qnum">1</span><span class="qact">全体シフトを確認する</span></div>
         <p class="qdesc">「全体シフト表」を開き、締め月と全体の内容（各部署が確定済みか、へんな空欄がないか）を<b>見て確認</b>します（見るだけ。編集モードにする必要はありません）。</p>
-        <figure class="qfig"><img src="assets/manual/q-calendar-view.png" alt="全体シフト表（参照モード）。部署・スタッフごとの日々のシフトと、確定済みを示すバッジ" loading="lazy" width="900" height="330" style="max-width:700px"></figure>
+        <figure class="qfig"><img src="assets/manual/q-calendar-view.png" alt="全体シフト表（参照モード）。部署・スタッフごとの日々のシフトと、確定済みを示すバッジ" loading="lazy" width="950" height="470" style="max-width:760px"></figure>
       </div>
       <div class="qstep">
         <div class="qstepHead"><span class="qnum">2</span><span class="qact">全体シフトを印刷する</span></div>
